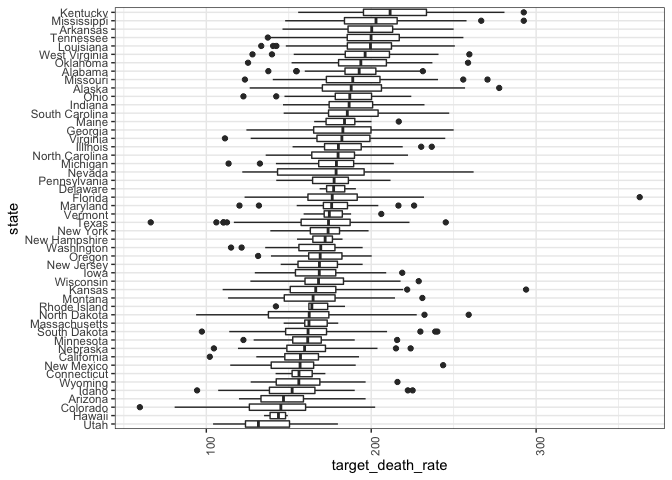
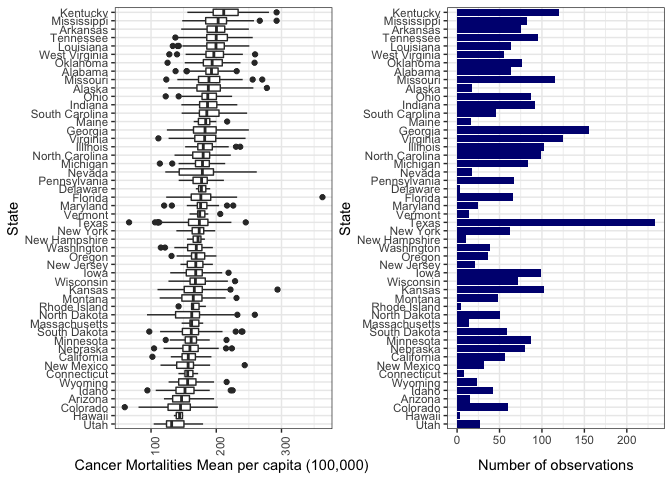
state plot

Changed region(s): [[0.125, 0.0, 0.9688, 1.0], [0.7188, 0.9062, 0.9688, 1.0], [0.0, 0.4062, 0.0312, 0.5]]

diff --git a/exploratory_plots.md b/exploratory_plots.md
@@ -31,17 +31,42 @@ cancer_varselect %>%
 ![](exploratory_plots_files/figure-markdown_github/unnamed-chunk-2-2.png)
 
 ``` r
-cancer_varselect %>%
+knitr::opts_chunk$set(
+  fig.width = 10,
+  fig.asp = .8,
+  out.width = "100%"
+)
+
+a = cancer_varselect %>%
   dplyr::select(state, target_death_rate) %>% 
-  mutate(state = fct_reorder(state, target_death_rate)) %>% 
+  mutate(state = fct_reorder(state, target_death_rate))
+
+state_boxplot = 
+  a %>% 
   ggplot(aes(x = state, y = target_death_rate) ) +
   geom_boxplot() +
   theme_bw() +
   coord_flip() +
-  theme(axis.text.x = element_text(angle = 90, hjust = 1))
+  labs(x = "State", y = "Cancer Mortalities Mean per capita (100,000) ")
+
+state_hist = 
+  a %>% 
+  group_by(state) %>% 
+  summarise(`Number of observations` = length(state)) %>% 
+  filter( `Number of observations` > 1) %>% 
+  ggplot(aes(y = `Number of observations`, x = state)) + 
+  geom_col(fill = "navy") + 
+  labs(x = "State", y = "Number of observations") +
+  theme(axis.text.x = element_text(face = "plain",color = "black", hjust = 1, angle = 90)) + 
+  coord_flip() +
+  theme_bw()
 ```
 
-![](exploratory_plots_files/figure-markdown_github/unnamed-chunk-3-1.png)
+``` r
+state_boxplot + state_hist
+```
+
+<img src="exploratory_plots_files/figure-markdown_github/unnamed-chunk-4-1.png" width="100%" />
 
 ``` r
 cancer_varselect %>%
@@ -56,4 +81,4 @@ cancer_varselect %>%
 
     ## `geom_smooth()` using method = 'gam' and formula 'y ~ s(x, bs = "cs")'
 
-![](exploratory_plots_files/figure-markdown_github/unnamed-chunk-4-1.png)
+<img src="exploratory_plots_files/figure-markdown_github/unnamed-chunk-5-1.png" width="100%" />
